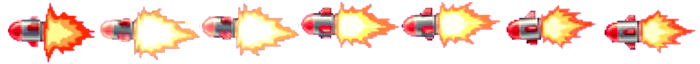
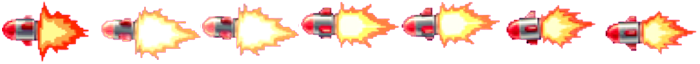
start workin of missile

diff --git a/include/Resources.h b/include/Resources.h
@@ -7,10 +7,10 @@
 #include <unordered_map>
 
 enum object_code {
-	Scientists_t, Misssile_t, Leser_t,
+	Scientists_t, Missile_t, Leser_t,
 	Coin_t, Light_t,
 	Gift_t, Gpower_t, Gshield_t, Gspeed_t, Gmoney_t,
-	Player_t, Tank_t
+	Player_t, Tank_t, FirstAlert_t, SecondAlert_t
 
 };
 
@@ -64,7 +64,7 @@ const std::string BOTTUNS_FILE_NAMES[NUM_OF_BUTTONS] = {
 //};
 
 //add textures
-const int NUM_OF_OBJECTS = 12;
+const int NUM_OF_OBJECTS = 14;
 const std::string OBJECT_FILE_NAMES[NUM_OF_OBJECTS] = {
 "Scientist.png",
 "Missile.png",
@@ -77,7 +77,9 @@ const std::string OBJECT_FILE_NAMES[NUM_OF_OBJECTS] = {
 "speedGift.png",
 "Piggy.png",
 "JetpackWalking.png",
-"SuperPowerTank.png"
+"SuperPowerTank.png",
+"MissileWarning.png",
+"MissileIncoming.png"
 
 };
 

diff --git a/src/Objects/Missile.cpp b/src/Objects/Missile.cpp
@@ -1,0 +1,14 @@
+#include "Objects/Missile.h"
+#include "Factory/ObjectFactory.h"
+
+bool Missile::m_registered = ObjectFactory<MovingGameObjects>::registerIt(FirstAlert_t,
+	[](int col, int row) -> std::list<std::unique_ptr<MovingGameObjects>> {
+		std::list<std::unique_ptr<MovingGameObjects>> lst;
+		lst.push_back(std::make_unique<Missile>(col, row));
+		return lst; });
+
+
+Missile::Missile(int col, int row)
+	:MovingGameObjects(FirstAlert_t, sf::Vector2f(SCREEN_SIZE.x, row), "FirstWarning")
+{
+}

diff --git a/include/Objects/Missile.h b/include/Objects/Missile.h
@@ -1,0 +1,20 @@
+#pragma once
+#include <SFML/Graphics.hpp>
+#include <memory>
+#include "MovingGameObjects.h"
+
+class Missile:public MovingGameObjects {
+public:
+	//using StatedObject::collision;
+
+	Missile(int, int);
+	virtual ~Missile();
+	//void move_and_change_sprite(float, Object*);
+	
+private:
+	static bool m_registered;
+	//sf::Sprite m_firstAlert;
+	//sf::Sprite m_SecondAlert;
+	std::unique_ptr<MissileState> m_currState;
+	int m_heightPlayer;
+};

diff --git a/src/Resources.cpp b/src/Resources.cpp
@@ -25,8 +25,11 @@ Resources::Resources()
 	appendFrameIntRects("Gshield", 0, { 40, 40 }, 1);
 	appendFrameIntRects("Gspeed", 0, { 80, 60 }, 1);
 	appendFrameIntRects("Scientists", 10, { 60, 87 }, 3);
+	appendFrameIntRects("Missile", 0, {100, 64}, 7);
+	appendFrameIntRects("FirstWarning", 0, { 55, 88 }, 4);
+	appendFrameIntRects("SecondWarning", 0, { 99, 100 },2);
 
-
+	
 
 }
 
